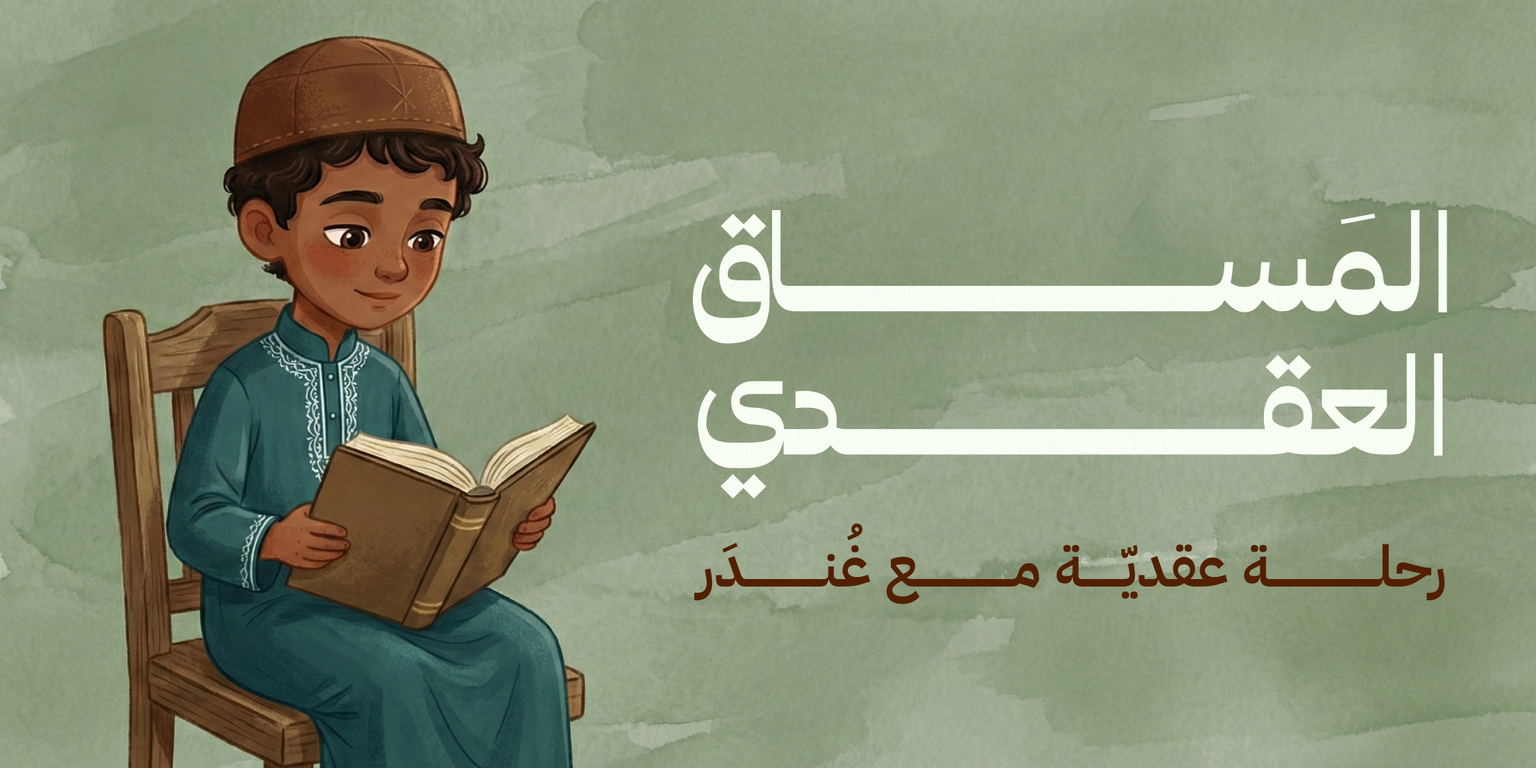
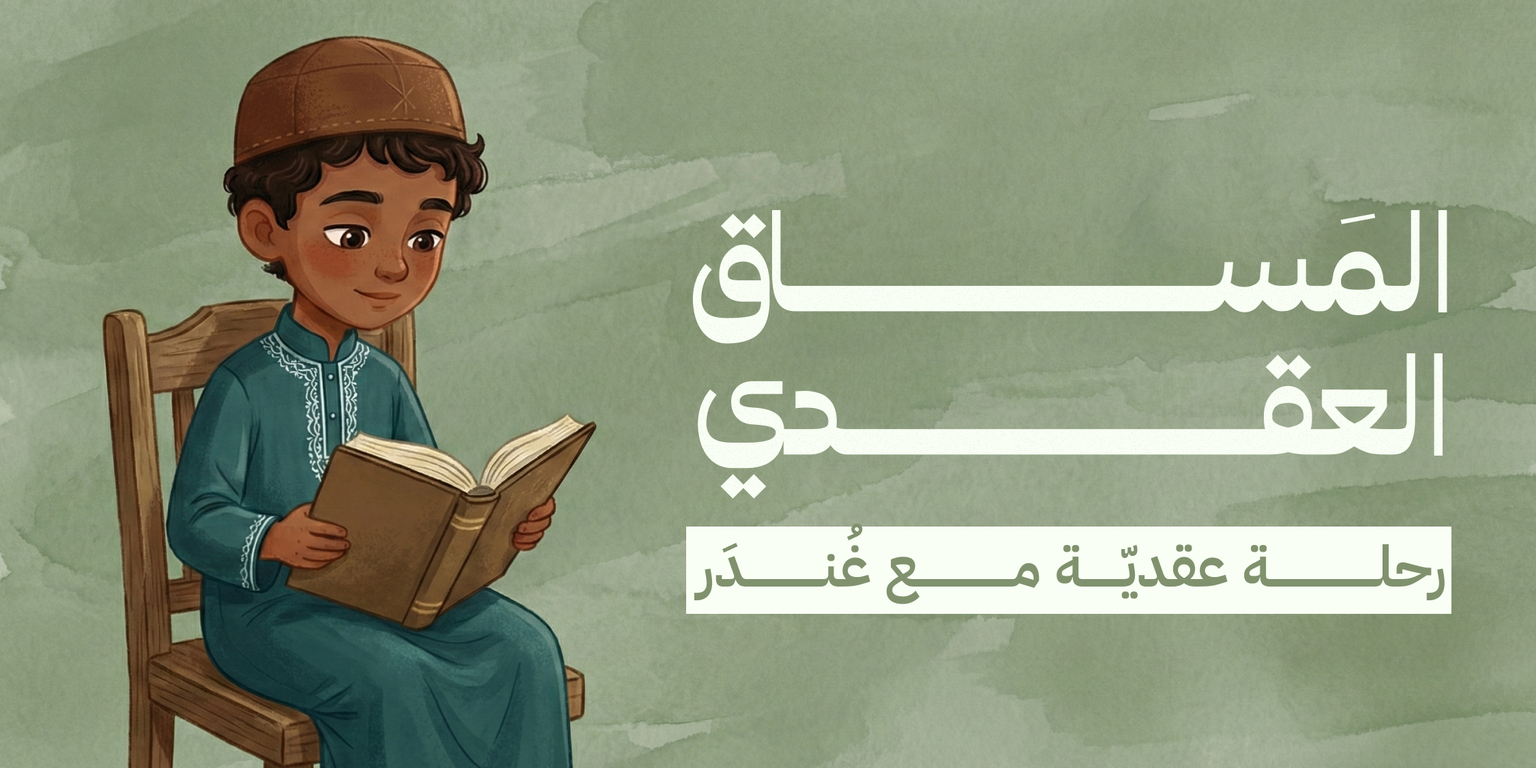
Hello

Changed region(s): [[0.4352, 0.6838, 0.9636, 0.8082]]

diff --git a/app/courses/[slug]/page.js b/app/courses/[slug]/page.js
@@ -10,46 +10,51 @@ import {
   FaStar,
   FaLock,
 } from "react-icons/fa";
+import Course1 from "@/public/Images/akhalk.jpg";
+import Course2 from "@/public/Images/ousool.jpg";
+import Course3 from "@/public/Images/labinat.jpg";
 
 // --- MOCK DATA (Simulating your Database) ---
 // In a real app, you would fetch this data based on the params.slug
 const TRACK_DATA = {
-  title: "المساق العقدي",
+  title: " رحلة عقديّة مع غُندَر | المسـاق  العقدي ",
+  description:
+    "المساق العقدي: رحلةٌ شيّقةٌ في أجلّ العلوم وأشرفها، بتعرّف بها الطالب على خالقه ودينه",
+
   slug: "aqeedah",
-  description: "رحلة ممتعة نتعلم فيها أصول ديننا ومن هو ربنا ولماذا نعبده.",
   progress: 15, // Total track progress
   totalCourses: 3,
   completedCourses: 0,
   courses: [
-    {
+   {
       id: 1,
-      title: "لبنات العقيدة",
-      slug: "building-blocks-aqeedah",
-      img: "https://images.unsplash.com/photo-1609557927087-f9cf8e88de18?q=80&w=1000&auto=format&fit=crop", // Placeholder
-      description: "مدخل ميسر وسهل لفهم العقيدة الإسلامية",
-      duration: "20 دقيقة",
-      isLocked: false, // First one is open
-      rating: 5.0,
-    },
-    {
+      title: "منظومة الأصول الثلاثة",
+      slug: "usool-thalatha",
+      img: Course2,
+      description: "نظم شعري يسهل حفظ الأصول الثلاثة",
+      duration: "40 دقيقة",
+      isLocked: false,
+      rating: 4.8,
+    },  {
       id: 2,
       title: "منظومة أحسن الإيمان",
       slug: "ahsan-al-iman",
-      img: "https://images.unsplash.com/photo-1542816323-d154da4fc07c?q=80&w=1000&auto=format&fit=crop", // Placeholder
+      img: Course1,
       description: "قصيدة جميلة نحفظ بها أسماء الله الحسنى",
       duration: "35 دقيقة",
-      isLocked: true, // Locked until previous is done (Gamification)
+      isLocked: true,
       rating: 4.9,
     },
+   
     {
       id: 3,
-      title: "منظومة الأصول الثلاثة",
-      slug: "usool-thalatha",
-      img: "https://images.unsplash.com/photo-1519817650390-64a93db51149?q=80&w=1000&auto=format&fit=crop", // Placeholder
-      description: "نظم شعري يسهل حفظ الأصول الثلاثة",
-      duration: "40 دقيقة",
-      isLocked: true,
-      rating: 4.8,
+      title: "لبنات العقيدة",
+      slug: "building-blocks-aqeedah",
+      img: Course3,
+      description: "مدخل ميسر وسهل لفهم العقيدة الإسلامية",
+      duration: "20 دقيقة",
+      isLocked: true, // First one is open
+      rating: 5.0,
     },
   ],
 };

diff --git a/app/page.js b/app/page.js
@@ -3,6 +3,8 @@ import React, { useState, useEffect } from "react";
 import Navbar from "./components/Navbar";
 import CoursesList from "./components/CoursesList";
 import Aakida from "../public/Images/aakida.jpg";
+import Aakida1 from "../public/Images/aakida1.jpg";
+
 import Link from "next/link";
 import { useRouter } from "next/navigation";
 import { BsPersonVideo3 } from "react-icons/bs";
@@ -25,11 +27,22 @@ export default function MaribChallenge() {
       courses: [
         {
           id: 101,
-          title: "المسـاق  العقدي | رحلة عقديّة مع غُندَر",
-          slug: "space-science",
+          title: " رحلة عقديّة مع غُندَر | المسـاق  العقدي ",
+          description:
+            "المساق العقدي: رحلةٌ شيّقةٌ في أجلّ العلوم وأشرفها، بتعرّف بها الطالب على خالقه ودينه",
+          slug: "aakida",
+          lessons: 3,
           img: Aakida,
         },
-        { id: 102, title: "المسـاق المقدسـي", slug: "human-body", img: Aakida },
+        {
+          id: 102,
+          title: "رحلة إلى القدس مع حنبل | المسـاق المقدسـي",
+          description:
+            "المساق المقدسي: مساق توعويّ تجاه مسجدنا الأقصى المبارك، يرنو لتعريف الطالب بمركزية هذا االمسجد المبارك",
+          slug: "qudus",
+          lessons: 7,
+          img: Aakida1,
+        },
       ],
     },
   ];
@@ -105,13 +118,13 @@ export default function MaribChallenge() {
             <div className="flex gap-4 justify-center">
               <Link
                 href="/login"
-                className="bg-main text-white px-6 py-2 rounded-sm shadow hover:bg-main/90 transition"
+                className="bg-main text-white px-6 py-2 rounded-sm  hover:bg-main/90 transition"
               >
                 تسجيل دخول
               </Link>
               <Link
                 href="/signup"
-                className="bg-gray-100 text-gray-700 px-6 py-2 rounded-sm shadow hover:bg-gray-200 transition"
+                className="bg-gray-100 text-gray-700 px-6 py-2 rounded-sm  hover:bg-gray-200 transition"
               >
                 إنشاء حساب
               </Link>

diff --git a/app/components/CoursesList.js b/app/components/CoursesList.js
@@ -51,7 +51,7 @@ export default function CoursesList({ categories }) {
                       dir="rtl"
                     >
                       {/* Title */}
-                      <h3 className="bold text-main text-xl font-bold mb-3 leading-snug line-clamp-2 min-h-[3.5rem]">
+                      <h3 className="bold text-main text-xl font-bold mb-1 leading-snug line-clamp-2 min-h-[3.5rem]">
                         {course.title}
                       </h3>
 
@@ -76,13 +76,13 @@ export default function CoursesList({ categories }) {
                         <div className="flex items-center gap-1.5 text-main">
                           <FaLayerGroup className="text-secondary text-sm" />
                           {/* You can make this dynamic later: {course.count || 3} */}
-                          <span>عدد الدورات : 3</span>
+                          <span>عدد الدورات : {course.lessons}</span>
                         </div>
                       </div>
 
                       {/* 3. Button */}
                       <button className="w-full bg-secondary text-white regular py-3 rounded-lg hover:bg-[#382c46] transition-colors flex items-center justify-center gap-2 group-hover:shadow-lg">
-                        <span>انضم إلينا</span>
+                        <span>الانتقال الى المساق </span>
                         <FaChevronLeft className="text-xs mt-1 transition-transform group-hover:-translate-x-1" />
                       </button>
                     </div>
